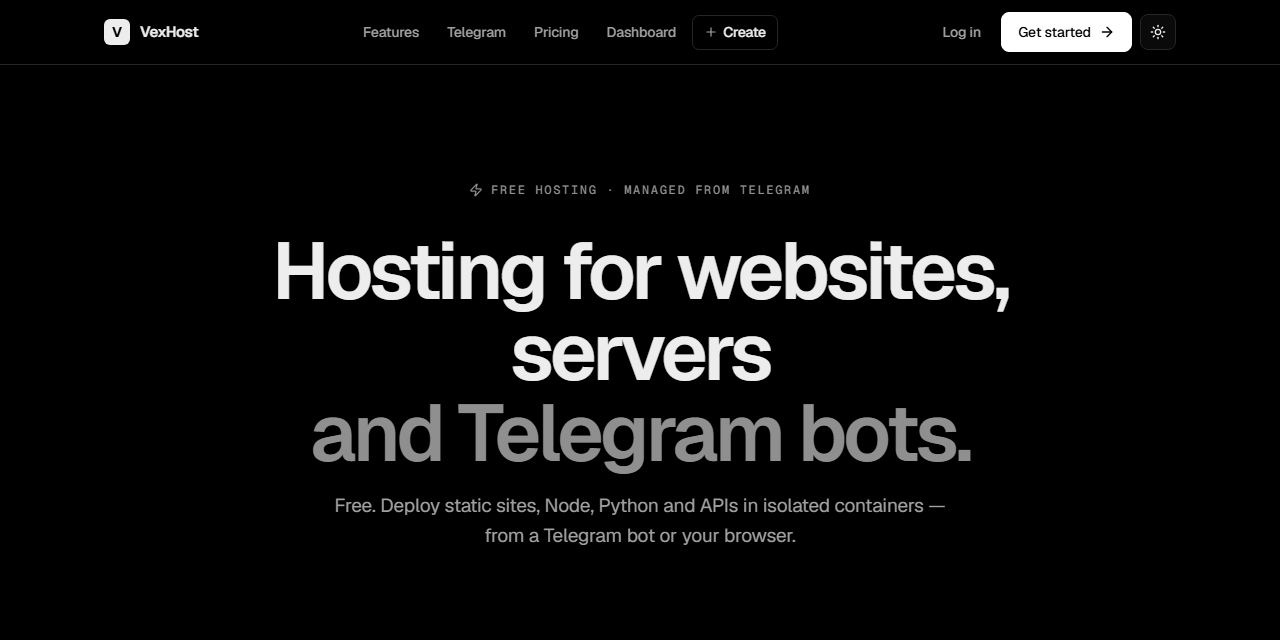
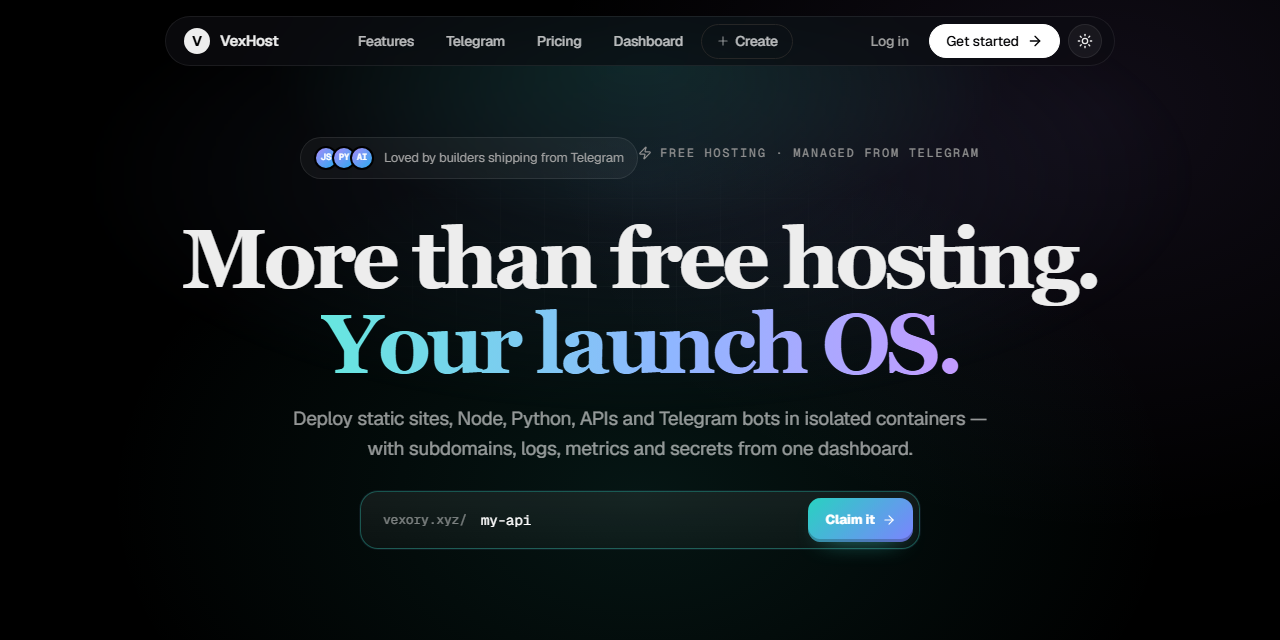
Refresh README screenshots

diff --git a/README.md b/README.md
@@ -34,6 +34,12 @@ VexHost is a Telegram-first hosting platform for builders who want to publish pr
 
 Live beta: [https://host.vexory.xyz/](https://host.vexory.xyz/)
 
+## Screenshots
+
+The README visuals are refreshed from the current beta UI.
+
+![VexHost environment variables manager](assets/env-manager-preview.png)
+
 ## Highlights
 
 - Deploy static sites, Node.js apps, Python apps, APIs, Telegram bots, and Mini Apps.